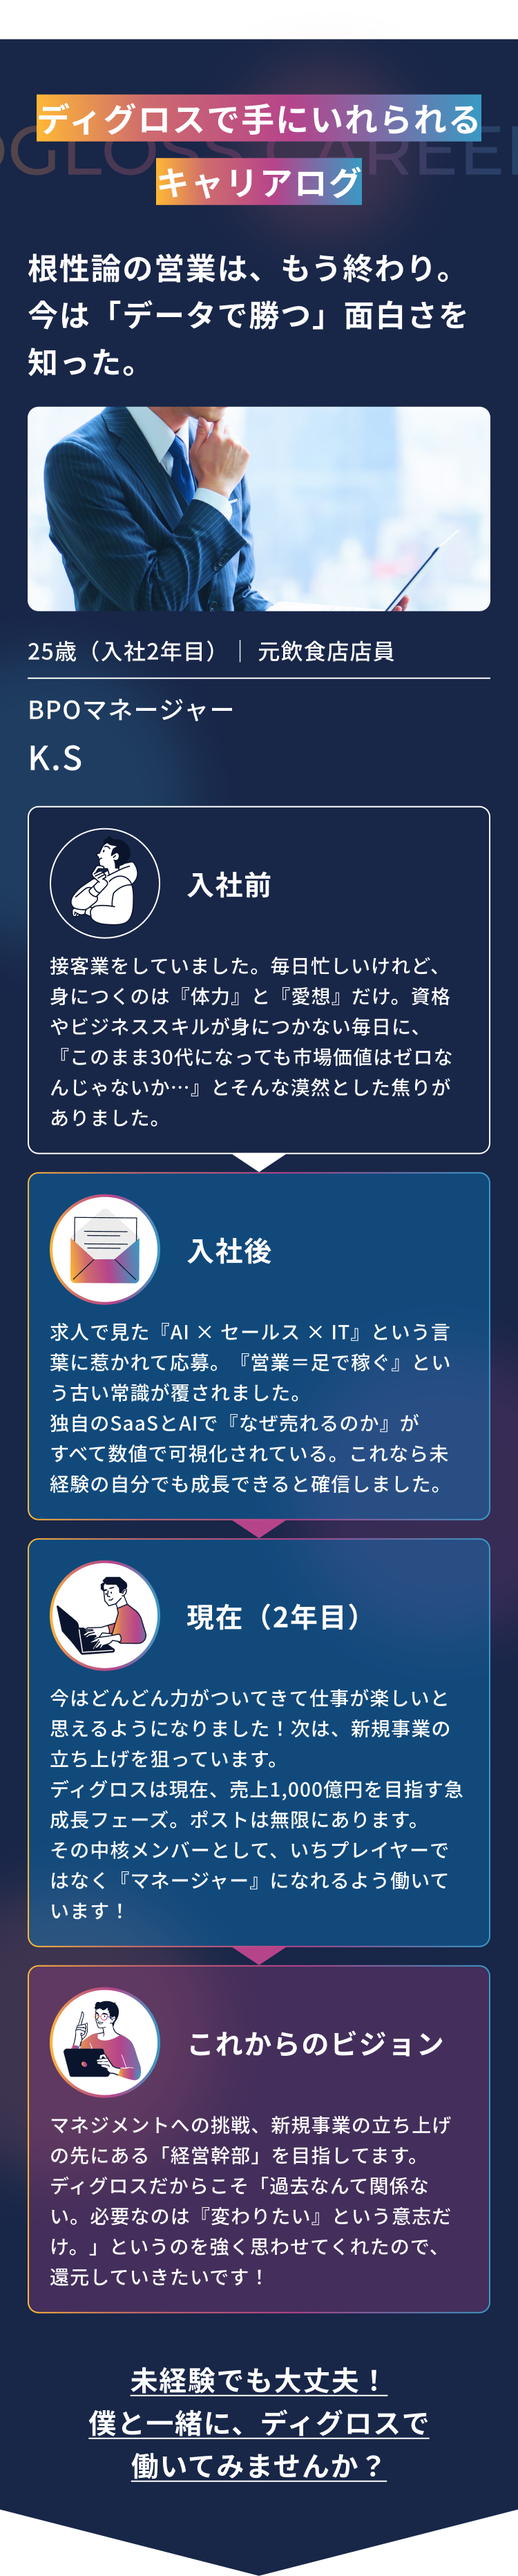
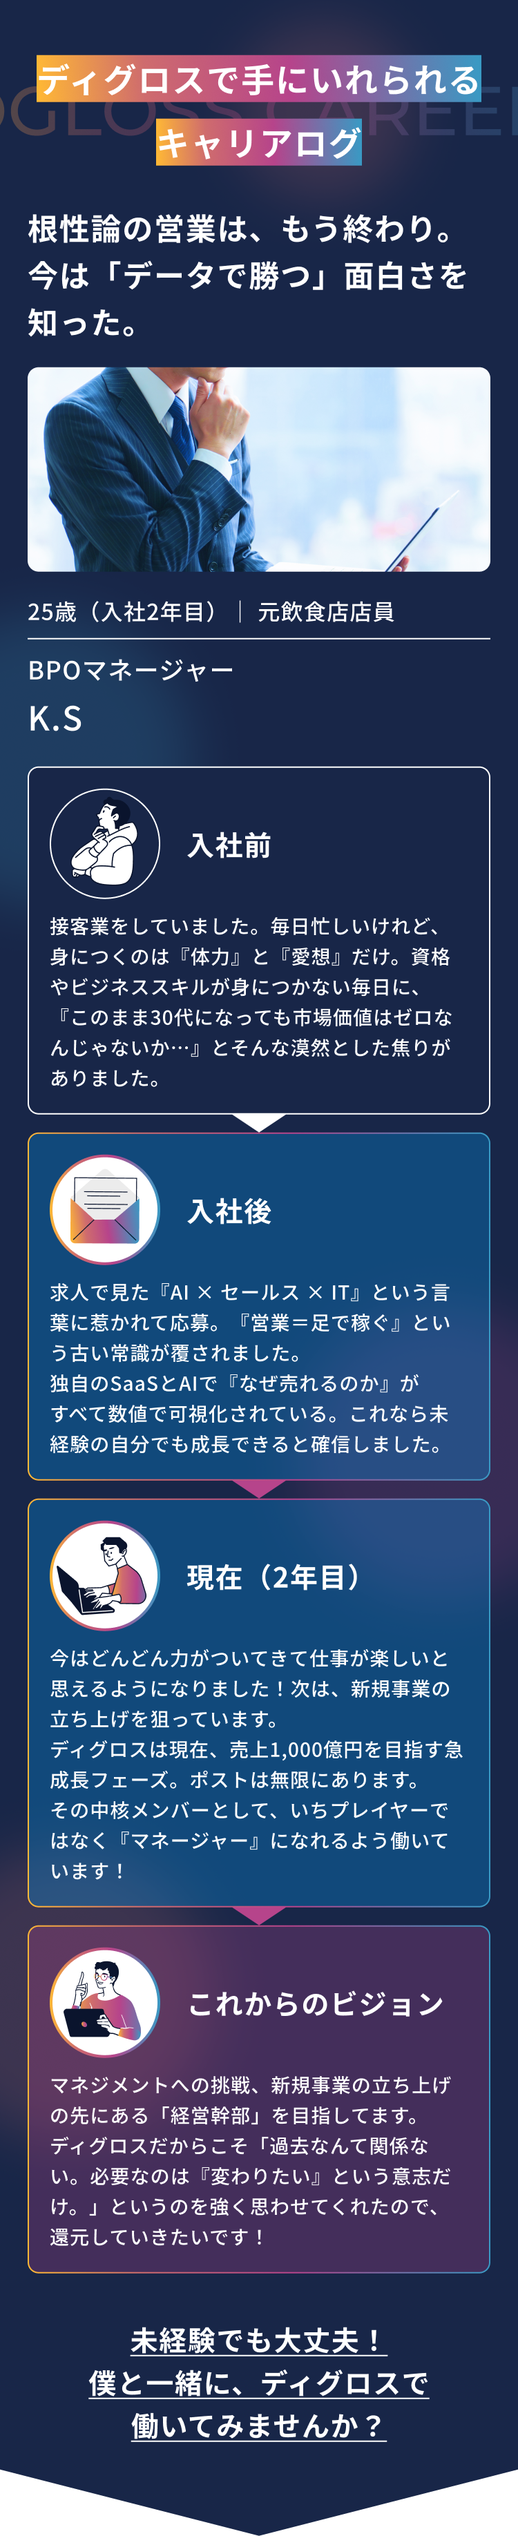
k

Changed region(s): [[0.0, 0.0, 1.0, 0.9624]]

diff --git a/src/scss/assets/css/_pages/_top.scss b/src/scss/assets/css/_pages/_top.scss
@@ -45,7 +45,7 @@
     flex-direction: column;
     position: fixed;
     top: 50%;
-    right: 5.3rem;
+    right: 3.1rem;
     transform: translateY(-50%);
     z-index: 100;
     width: 34rem;
@@ -355,9 +355,9 @@
     #b6448b 57.15%,
     #399ac4 99.63%
   );
-  padding: 4rem 2rem;
+  padding: 4.4rem 2rem 4rem 2rem;
   &__ttl {
-    margin-bottom: 2.4rem;
+    margin-bottom: 2.7rem;
   }
 }
 
@@ -365,7 +365,7 @@
   position: relative;
   z-index: 2;
   background: #0a142d;
-  padding: 4rem 0;
+  padding: 4.1rem 0;
   &__list {
     padding: 2.4rem 2rem 0 2rem;
   }
@@ -379,7 +379,7 @@
 }
 .s-job {
   background: #0a142d;
-  padding: 6.8rem 2rem 4rem;
+  padding: 7.8rem 2rem 4rem;
   margin-top: -5rem;
 
   &__list {
@@ -413,7 +413,7 @@
     ul {
       li {
         & + li {
-          margin-top: 2rem;
+          margin-top: 1.7rem;
         }
       }
     }

diff --git a/src/scss/assets/css/_pages/_form.scss b/src/scss/assets/css/_pages/_form.scss
@@ -5,7 +5,7 @@
     background-color: #fff;
     border-radius: 0.8rem;
     box-shadow: 0 0 1rem rgba(210, 210, 210, 0.6);
-    padding: 3.2rem 2.4rem;
+    padding: 2.9rem 2.4rem;
     display: flex;
     flex-direction: column;
     align-items: center;
@@ -146,7 +146,7 @@
   &__form-options {
     display: flex;
     flex-direction: column;
-    gap: 1.6rem;
+    gap: 1.9rem;
 
     &.is-error .p-front__form-option {
       border-color: #eb6101;
